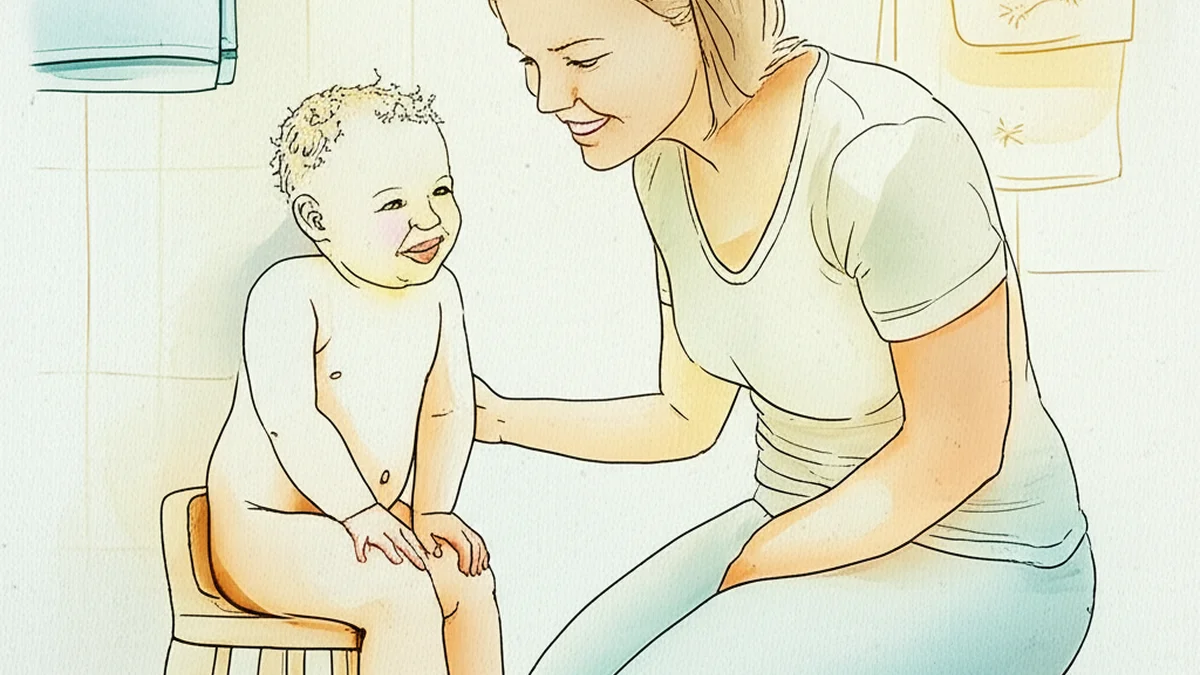
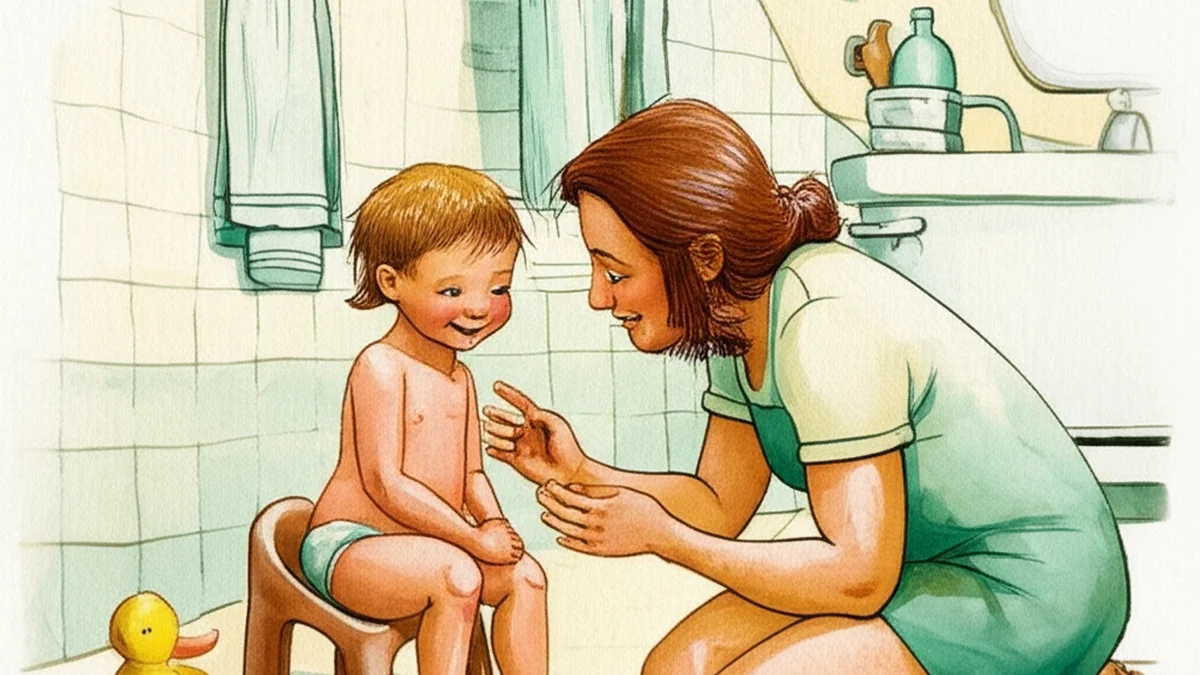
Update image style to Jerry Pinkney/Sophie Blackall storybook watercolor

diff --git a/BLOG_STYLE_GUIDE.md b/BLOG_STYLE_GUIDE.md
@@ -43,8 +43,8 @@ Warm, honest, practical. Parent-to-parent energy. See `voice-profile.md` for ful
 
 ## Image Requirements
 - **Hero image:** One per post. WebP preferred. Stored in /images/blog/. 16:9 aspect ratio.
-- **Style:** Soft faded watercolor illustration on textured paper. Thin delicate line work, NOT thick outlines. Muted washed-out earth tones (faded browns, soft creams, dusty teal, pale yellows). Colors should bleed and fade like real watercolor on paper. Visible paper grain texture. Realistic toddler and parent proportions with gentle expressive faces. Detailed but soft backgrounds showing home environments with furniture, toys, books. Natural diffused lighting. Must look hand-painted, NOT digital illustration. No text, no logos, no real photographs.
-- **Prompt template:** "Soft faded watercolor illustration on textured paper of [scene related to post topic]. Thin delicate line work, NOT thick outlines. Muted washed-out earth tones — faded browns, soft creams, dusty teal, pale yellows. Colors should bleed and fade like real watercolor on paper. Visible paper grain texture. Realistic toddler and parent proportions with gentle expressive faces. Detailed but soft background — home environment with furniture, toys, books. Natural diffused lighting. Must look hand-painted, NOT digital illustration. No text, no logos. Reference: classic children's picture book watercolor art."
+- **Style:** Warm storybook watercolor illustration in the style of Jerry Pinkney and Sophie Blackall. Soft muted earth tones (faded browns, warm creams, dusty teal, pale yellows). Visible watercolor washes with subtle pencil line work underneath. Realistic but gentle character proportions — NOT chibi, NOT exaggerated cartoon heads. Warm expressive faces with soft features. Rich detailed home backgrounds (furniture, toys, books, shelves, bathroom items). Wet-on-wet watercolor blending with visible paper texture. Soft diffused natural lighting. Classic children's picture book feel. No text, no logos, no photorealism, no digital art look, no creepy or uncanny faces.
+- **Prompt template:** "Warm storybook watercolor illustration in the style of Jerry Pinkney and Sophie Blackall of [scene related to post topic]. Soft muted earth tones — faded browns, warm creams, dusty teal, pale yellows. Visible watercolor washes with subtle pencil line work underneath. Realistic but gentle character proportions — NOT chibi, NOT exaggerated cartoon heads. Warm expressive faces with soft features. Rich detailed home background — furniture, toys, books, shelves, bathroom items. Wet-on-wet watercolor blending with visible paper texture. Soft diffused natural lighting. Classic children's picture book feel. No text, no logos, no photorealism, no digital art look, no creepy or uncanny faces."
 - **Alt text:** Descriptive and specific. Not "potty training" but "toddler sitting on a small potty chair with a proud expression."
 
 ## Internal Linking

diff --git a/.claude/commands/project/blog.md b/.claude/commands/project/blog.md
@@ -53,7 +53,7 @@ If $ARGUMENTS is empty or says "auto", pick the next available topic from `.clau
    - First, ensure the library is installed: `pip install google-genai` (skip if already installed)
    - Ask the user for their Gemini API key if not found in environment variables (GEMINI_API_KEY)
    - Use `google.genai.Client` with model `gemini-2.0-flash-exp-image-generation`
-   - **Prompt:** "Soft faded watercolor illustration on textured paper of [scene directly related to the post topic]. Thin delicate line work, NOT thick outlines. Muted washed-out earth tones — faded browns, soft creams, dusty teal, pale yellows. Colors should bleed and fade like real watercolor on paper. Visible paper grain texture. Realistic toddler and parent proportions with gentle expressive faces. Detailed but soft background — home environment with furniture, toys, books. Natural diffused lighting. Must look hand-painted, NOT digital illustration. No text, no logos. Reference: classic children's picture book watercolor art."
+   - **Prompt:** "Warm storybook watercolor illustration in the style of Jerry Pinkney and Sophie Blackall of [scene directly related to the post topic]. Soft muted earth tones — faded browns, warm creams, dusty teal, pale yellows. Visible watercolor washes with subtle pencil line work underneath. Realistic but gentle character proportions — NOT chibi, NOT exaggerated cartoon heads. Warm expressive faces with soft features. Rich detailed home background — furniture, toys, books, shelves, bathroom items. Wet-on-wet watercolor blending with visible paper texture. Soft diffused natural lighting. Classic children's picture book feel. No text, no logos, no photorealism, no digital art look, no creepy or uncanny faces."
    - Set `config=types.GenerateContentConfig(response_modalities=["TEXT", "IMAGE"])`
    - Extract the image from `response.candidates[0].content.parts`, find the part with `inline_data`, and save the raw bytes
    - **Resize using crop-to-fit (NEVER force-stretch):**
